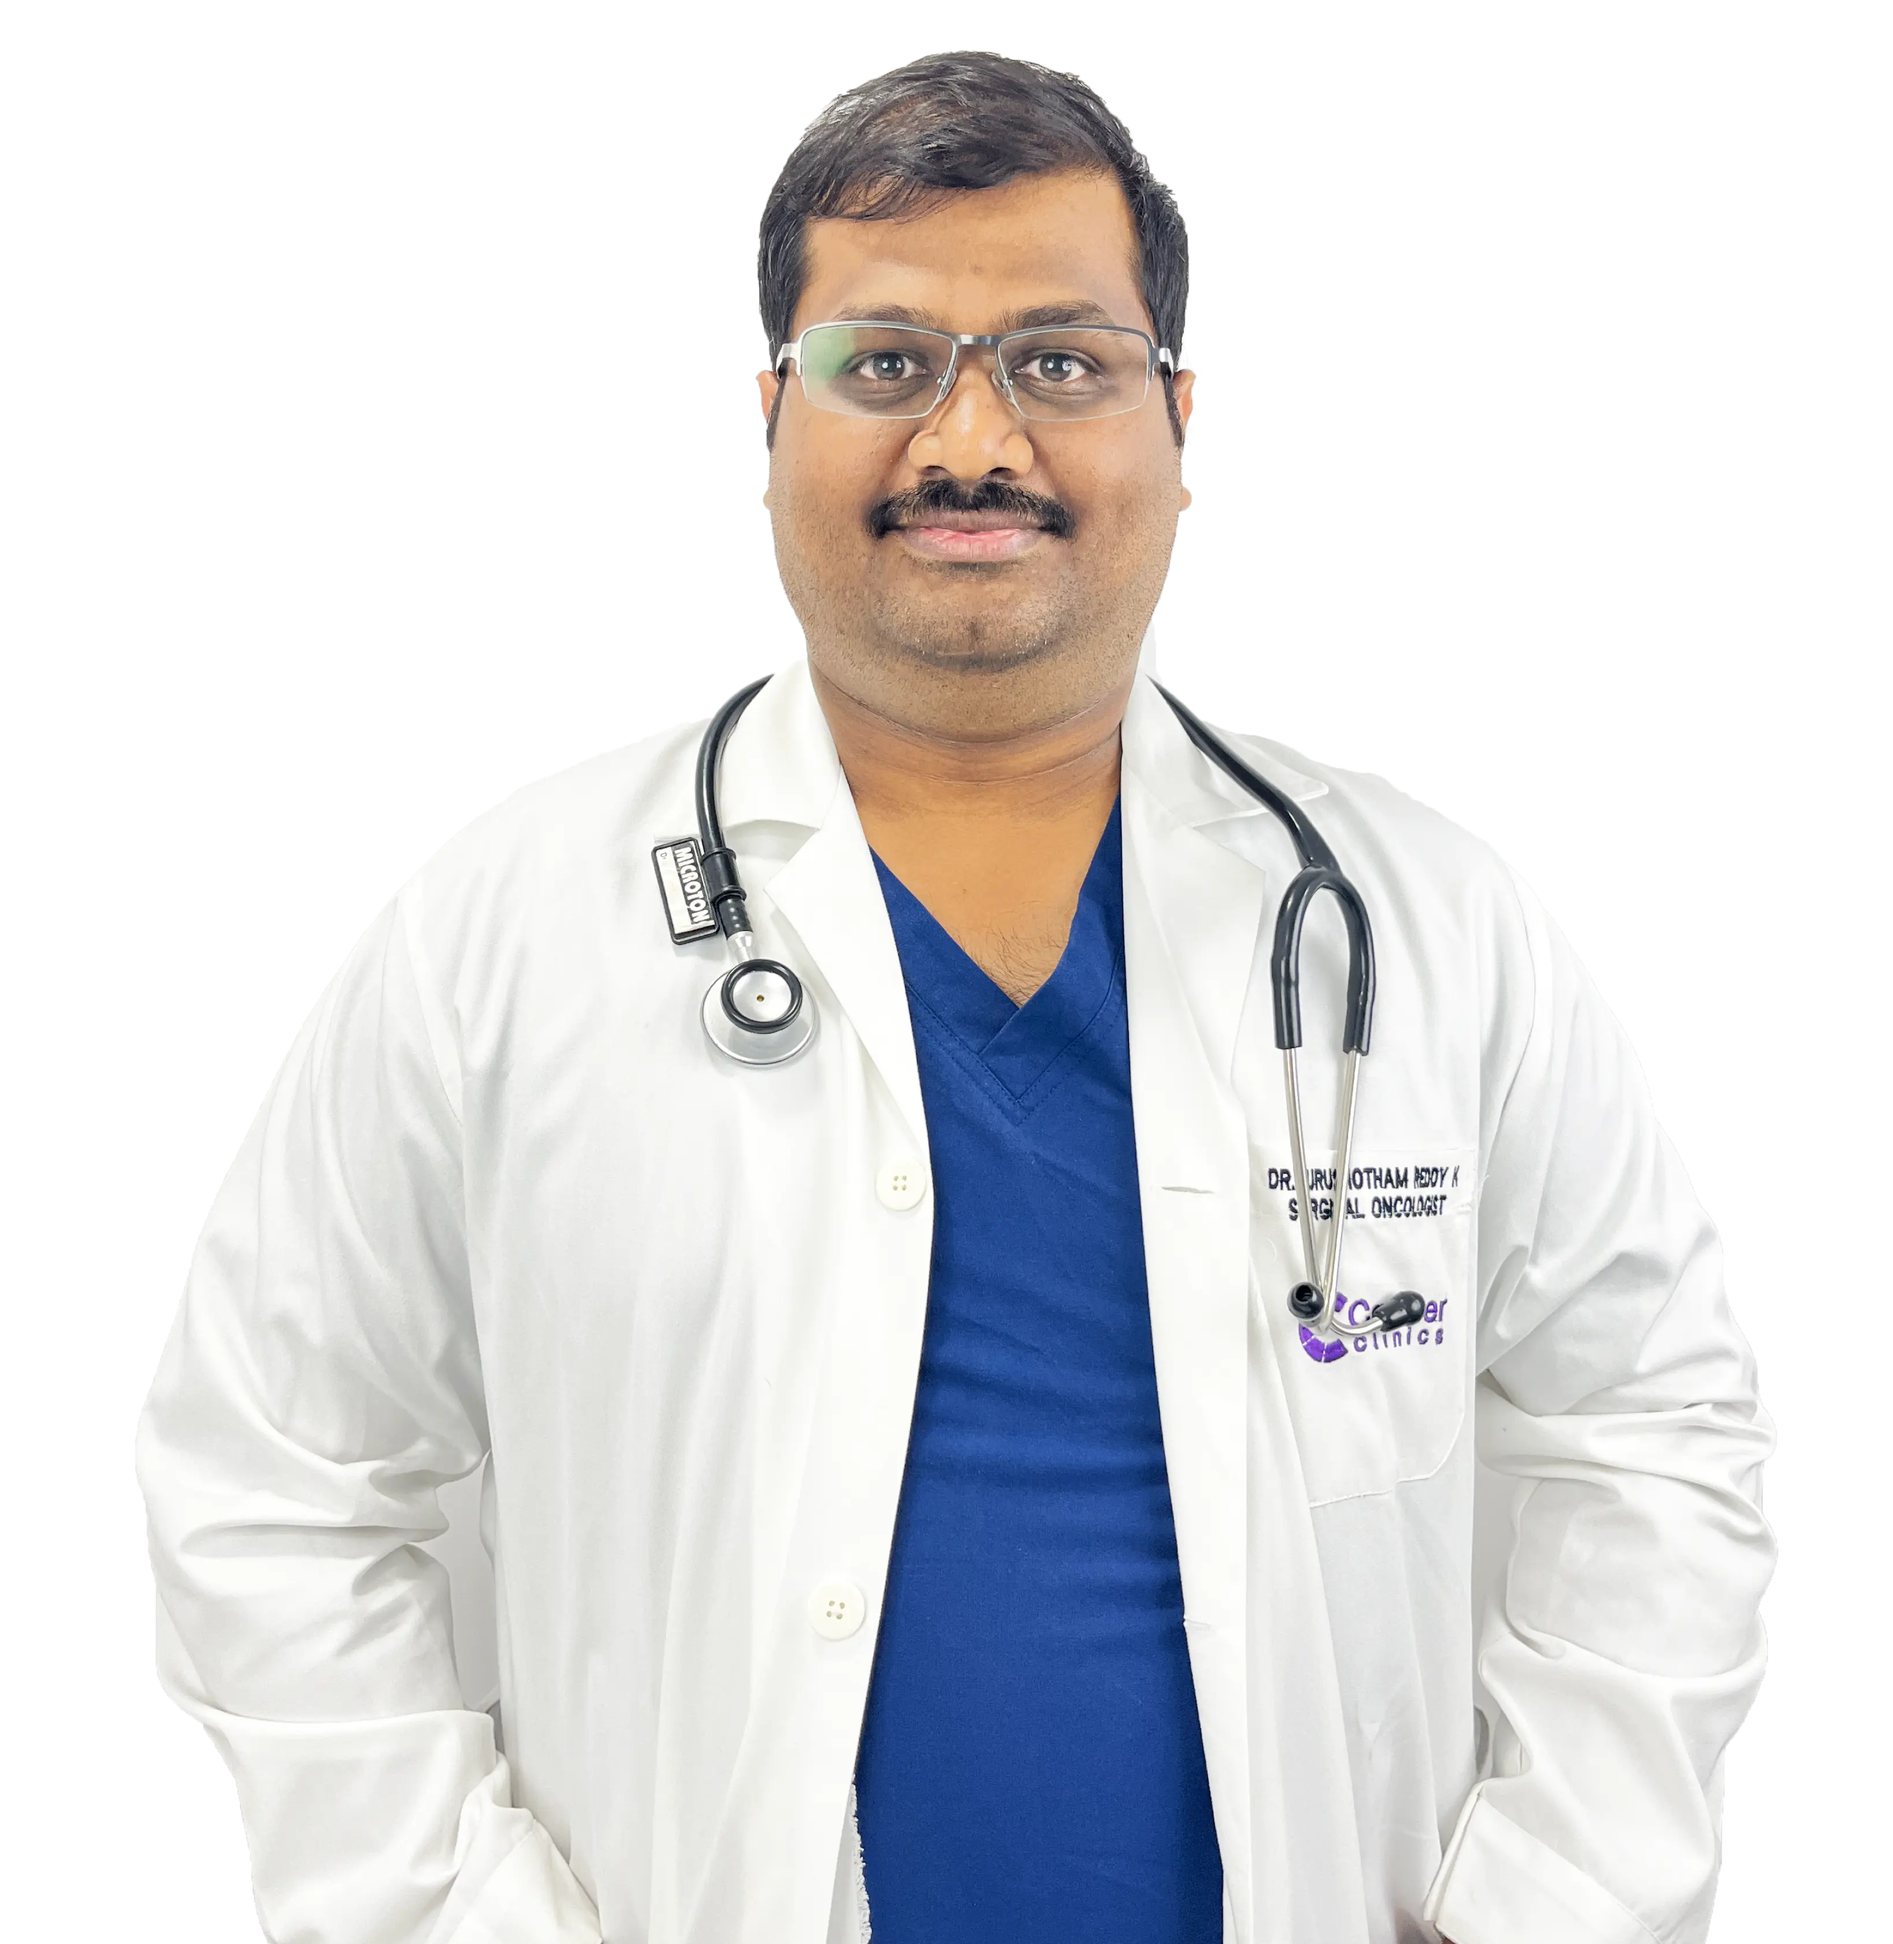
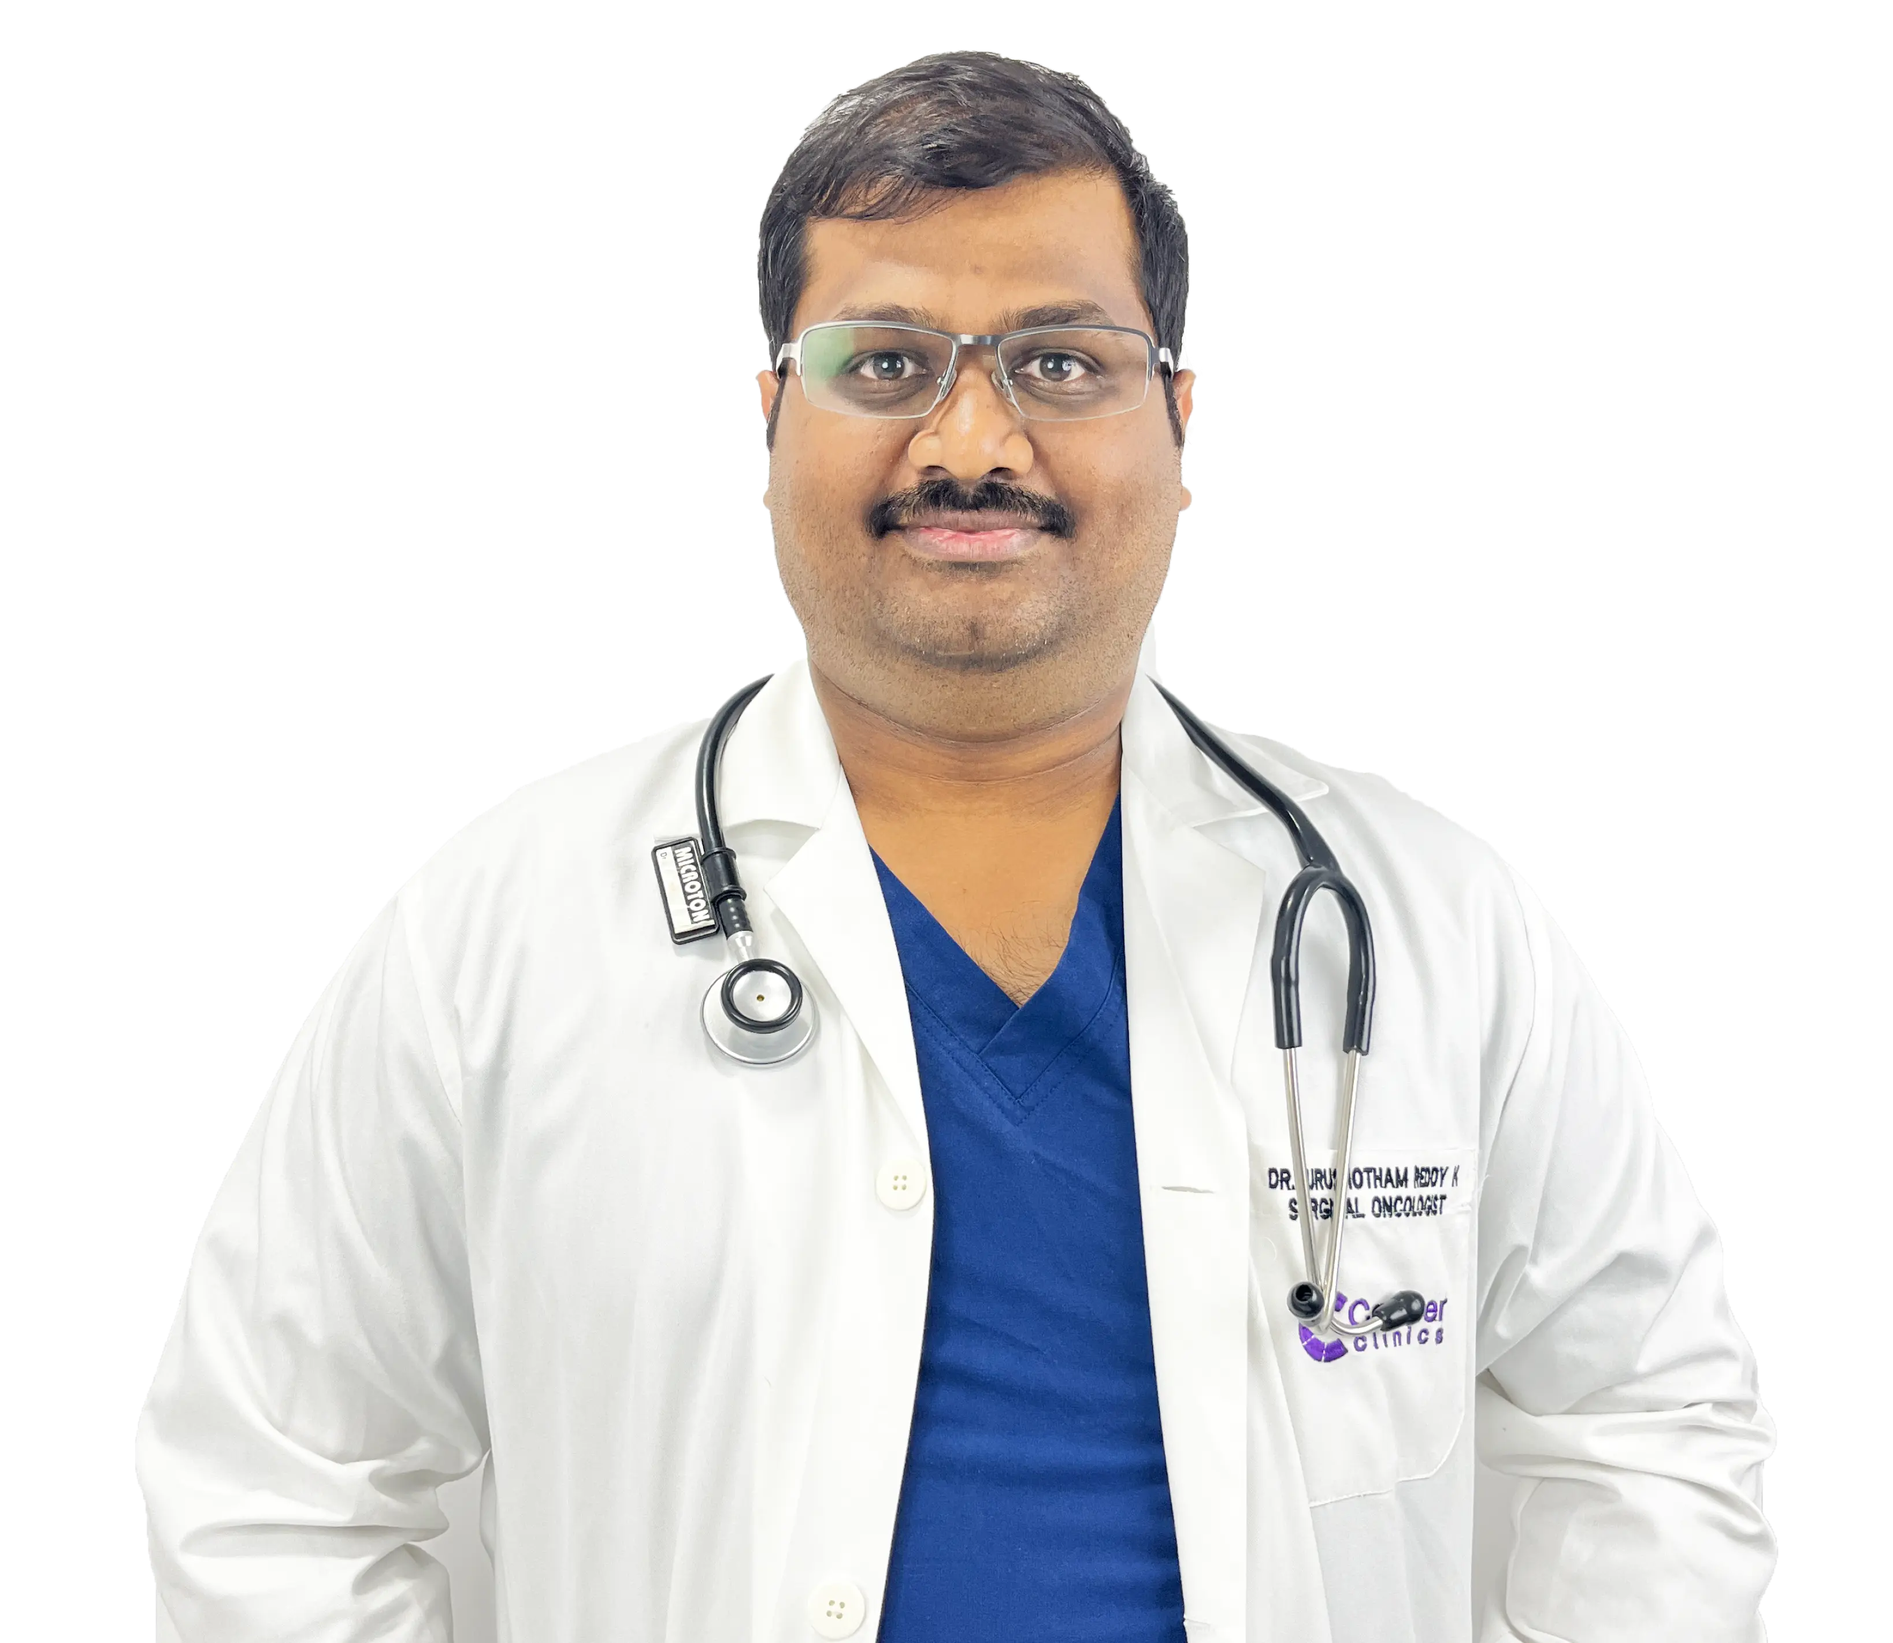
updated

diff --git a/biopsyLandingPage/styles/biopsyTestCost.css b/biopsyLandingPage/styles/biopsyTestCost.css
@@ -39,7 +39,7 @@
     color: var(--brandClr);
     font-size: 1rem;
     position: relative;
-    bottom: 0.7rem;
+    bottom: 0.4rem;
     text-align: center;
 
 }
@@ -100,6 +100,10 @@ table{
        position: relative;
        left: 2rem;
    }
+   
+   .biopsy-test-cost__table-large-devices{
+    display : none;
+}
 
 @media screen and (min-width:768px){
 
@@ -110,6 +114,8 @@ table{
     }
     .biopsy-test-cost__table td{
         font-size:0.62rem ;
+        height : 1.773rem;
+        width : 10.03rem;
     }
     .biopsy-test-cost__table{
         width: 20rem;
@@ -138,13 +144,20 @@ font-weight: 600;
 margin: 0rem;
 }
 .biopsy-test-cost__table__td>b{
- font-size: 0.35rem;
+ font-size: 0.33rem;
  position: relative;
- left: 1.5rem;
- top: 0.55rem;
+ left: 0rem;
+ top: 0.6rem;
 }
 .biopsy-test-cost__table__td>span{
     position: relative;
     left: 2rem;
+}
+.biopsy-test-cost__table-small-devices{
+    display : none !important;
+}
+.biopsy-test-cost__table-large-devices{
+    display : block;
+    height: 14.37rem;
 }
 }

diff --git a/DoctorPurushotham-LandingPage/styles/heroBanner.css b/DoctorPurushotham-LandingPage/styles/heroBanner.css
@@ -103,7 +103,7 @@ margin-left: 0.39rem;
 @media screen and (min-width:768px){
 .hero-banner-container{
     width: 100%;
-    height: 16.03rem;
+    height: 13.62rem;
     display: flex;
     flex-direction: row;
     justify-content: space-between;
@@ -114,7 +114,7 @@ margin-left: 0.39rem;
     font-size: 1.6rem;
     width: 17.41rem;
     height: 3.77rem;
-    margin: 2.96rem 0 0 0;
+    margin: 0.88rem 0 0 0;
 text-align: unset;
 }
 
@@ -129,7 +129,7 @@ text-align: unset;
 
 .hero-banner-container img{
     width: 15.45rem;
-    height: 15.86rem;
+    /* height: 13.6rem; */
   position: unset;
 }
 .hero__banner__text{
@@ -147,7 +147,7 @@ text-align: unset;
     justify-content: space-around;
     margin-left: 5.85rem;
     position: relative;
-    bottom: 1.6rem;
+    bottom: 2.8rem;
     top:unset;
     left: unset;
     gap: 0;

diff --git a/biopsyLandingPage/components/biopsyTestCost.php b/biopsyLandingPage/components/biopsyTestCost.php
@@ -2,14 +2,50 @@
 
 
 
-<section>
+<section id="table">
 
-<div class="biopsy-test-cost">
- <table class="biopsy-test-cost__table" cellspacing="0" cellpadding="">
+<div class="biopsy-test-cost" > 
+ <table class="biopsy-test-cost__table biopsy-test-cost__table-large-devices" cellspacing="0" cellpadding="">
 
  <tr>
     <th>Biopsy Type</th>
-    <th>Approximate Test Cost</th>
+    <th>Biopsy Cost*</th>
+ </tr>
+ <tr>
+    <td class="biopsy-test-cost__table__td1">Biopsy Procedure</td>
+    <td class="biopsy-test-cost__table__td">Rs.1,999/-</td>
+ </tr>
+ <tr>
+    <td class="biopsy-test-cost__table__td1">Biopsy with Gun (If needed)</td>
+    <td  class="biopsy-test-cost__table__td">Rs.2,999/-</td>
+ </tr>
+ <tr>
+    <td class="biopsy-test-cost__table__td1">Biopsy and Histopathology</td>
+    <td  class="biopsy-test-cost__table__td">Rs.999/-</td>
+ </tr>
+ <tr>
+    <td class="biopsy-test-cost__table__td1">CT Guided Biopsy</td>
+    <td  class="biopsy-test-cost__table__td">Rs. 9,999/-</td>
+ </tr>
+ <tr>
+    <td class="biopsy-test-cost__table__td1">Ultrasound Guided Biopsy - Minor</td>
+    <td  class="biopsy-test-cost__table__td">Rs.3,000/-</td>
+ </tr>
+ <tr>
+    <td class="biopsy-test-cost__table__td1">Ultrasound Guided Biopsy - Major</td>
+    <td  class="biopsy-test-cost__table__td">Rs.6,000/</td>
+ </tr>
+  <tr>
+    <td class="biopsy-test-cost__table__td1">Surgical Biopsy</td>
+    <td  class="biopsy-test-cost__table__td"><span>Rs. 10,000/- to 60,000/-</span> <b>*These are all Base Prices</b></td>
+ </tr>
+
+ </table> 
+ <table class="biopsy-test-cost__table biopsy-test-cost__table-small-devices" cellspacing="0" cellpadding="">
+
+ <tr>
+    <th>Biopsy Type</th>
+    <th>Biopsy Cost*</th>
  </tr>
  <tr>
     <td class="biopsy-test-cost__table__td1">Biopsy Procedure</td>
@@ -25,18 +61,18 @@
  </tr>
  <tr>
     <td class="biopsy-test-cost__table__td1">CT Guided Biopsy</td>
-    <td  class="biopsy-test-cost__table__td">Rs.9,999/-</td>
+    <td  class="biopsy-test-cost__table__td">Rs. 9,999/-</td>
  </tr>
  <tr>
     <td class="biopsy-test-cost__table__td1">US Guided Biopsy</td>
     <td  class="biopsy-test-cost__table__td">Rs.2,999/-</td>
  </tr>
- <tr>
+  <tr>
     <td class="biopsy-test-cost__table__td1">Surgical Biopsy</td>
-    <td  class="biopsy-test-cost__table__td"><span>Rs.9,999/-</span> <b>*These are all Base Prices</b></td>
+    <td  class="biopsy-test-cost__table__td"><span>Rs.9,999/-</span><b>*These are all Base Prices</b></td>
  </tr>
 
- </table>  
+ </table> 
 
 <div class="biopsy-test-cost__text">
 <h1> <b>Biopsy Test</b> Cost in Hyderabad</h1>
@@ -44,7 +80,7 @@
 <p class="biopsy-test-cost__text__p2">Get<span> Free In-person Cancer Doctor Consultation </span>to discuss the biopsy that suits your needs.</p>
 <p> Your<span> Cost Estimate is just a click away.</span> </p>
 
-<button><a href="#" style="text-decoration:none; color:white ">Get FREE Cost Estimation</a></button>
+<button><a href="#table" style="text-decoration:none; color:white ">Get FREE Cost Estimation</a></button>
 </div>
 </div>
 </section>

diff --git a/biopsyLandingPage/components/banner.php b/biopsyLandingPage/components/banner.php
@@ -31,7 +31,7 @@ $utm_medium = (isset($_REQUEST['utm_medium']) && $_REQUEST['utm_medium'] != '') 
         <div class="banner__specialilty-texts">
             <p>
                 <img src="assets/banner-icon-1.webp" alt="cost image">
-                Biopsy Test cost starts&nbsp;<span>@Rs. 1999</span>
+                Biopsy Test cost starts&nbsp;<span>@Rs. 1999/-</span>
             </p>
             <p>
                 <img src="assets/banner-icon-2.webp" alt="cost image">

diff --git a/biopsyLandingPage/components/whyCion.php b/biopsyLandingPage/components/whyCion.php
@@ -1,6 +1,6 @@
 <div class="why-cion">
     <h1 class="why-cion__title">
-        Why <span>Choose CION</span>
+        Why <span>Choose CION ?</span>
     </h1>
     <div class="why-cion__animation-container">
         <div class="why-cion__center">
